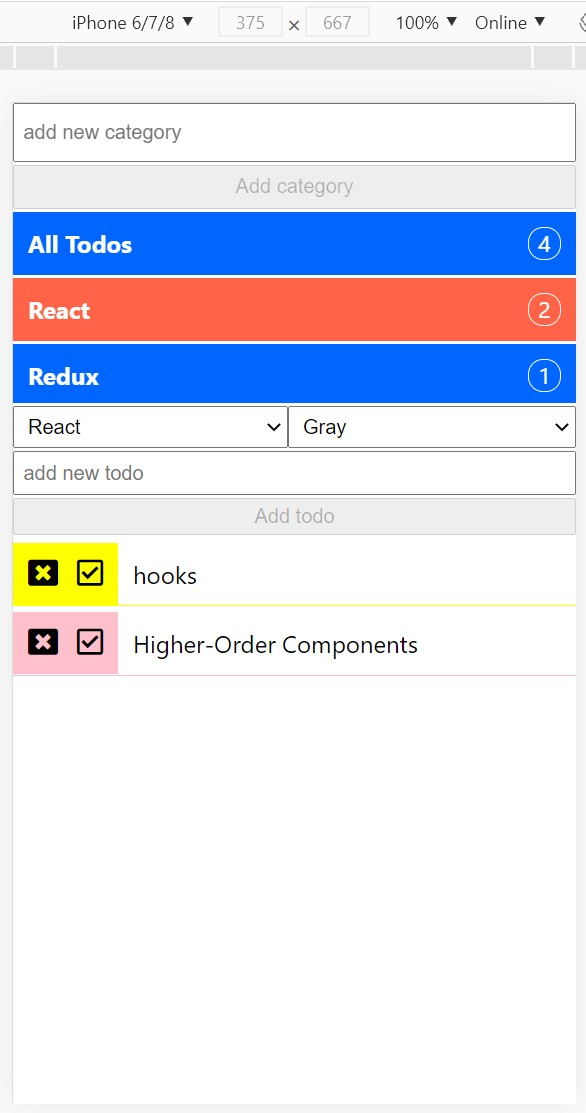
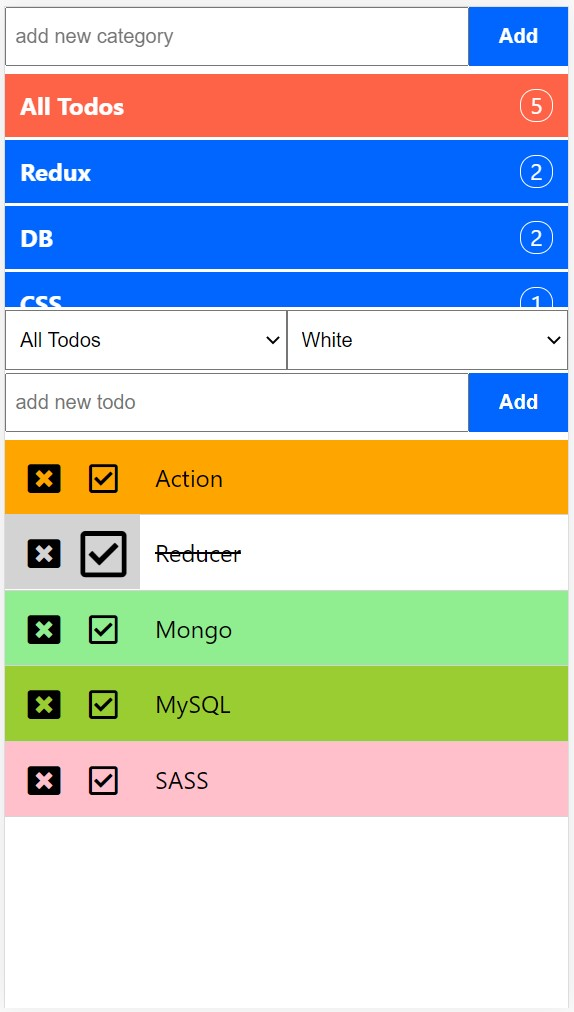
fixes

diff --git a/src/CategoryItems.jsx b/src/CategoryItems.jsx
@@ -1,38 +1,10 @@
 import React, { useContext } from "react";
 import { TodoContext } from "./TodoContext";
+import DeleteCategoryItem from "./DeleteCategoryItem";
 import styles from "./CategoryItems.module.scss";
 
 const CategoryItems = () => {
-  const {
-    todos,
-    categories,
-    handleSelectedCategory,
-    handleDeleteCategory,
-  } = useContext(TodoContext);
-
-  const DeleteCategory = ({ id }) => {
-    const todos_ = todos.filter((todo) => todo.category.id === id).length;
-
-    if (id === 1 || todos_) {
-      return (
-        <div className={styles.category__count}>
-          {id === 1 ? todos.length : todos_}
-        </div>
-      );
-    } else {
-      return (
-        <div
-          onClick={(event) => {
-            event.stopPropagation();
-            handleDeleteCategory(id);
-          }}
-          className={styles.category__button}
-        >
-          <i className="far fa-window-close"></i>
-        </div>
-      );
-    }
-  };
+  const { categories, handleSelectedCategory } = useContext(TodoContext);
 
   return (
     <div className={styles.wrap}>
@@ -47,7 +19,7 @@ const CategoryItems = () => {
           key={category.id}
         >
           <div className={styles.category__text}>{category.value}</div>
-          <DeleteCategory id={category.id} />
+          <DeleteCategoryItem id={category.id} />
         </div>
       ))}
     </div>

diff --git a/src/CategoryItems.module.scss b/src/CategoryItems.module.scss
@@ -27,45 +27,4 @@
       text-decoration: line-through;
     }
   }
-
-  &__button {
-    box-sizing: border-box;
-    min-height: 22px;
-    & i {
-      font-size: 20px;
-      cursor: pointer;
-      &:hover {
-        transition: 0.5s;
-        font-size: 18px;
-      }
-    }
-  }
-
-  &__btn {
-    overflow: hidden;
-    width: 100%;
-    background-color: rgb(0, 102, 255);
-    color: white;
-    border: none;
-    text-decoration: none;
-    border-radius: 0;
-    padding: 10px;
-    min-height: 22px;
-    margin-bottom: 5px;
-    font-weight: bold;
-    transition-duration: 0.4s;
-    &:hover {
-      overflow: hidden;
-      border: 0;
-      border-radius: 0;
-      background-color: tomato;
-    }
-  }
-
-  &__count {
-    border: 1px solid white;
-    border-radius: 10px;
-    padding: 0 6px;
-    font-size: 15px;
-  }
 }

diff --git a/src/DeleteCategoryItem.jsx b/src/DeleteCategoryItem.jsx
@@ -1,0 +1,30 @@
+import React, { useContext } from "react";
+import { TodoContext } from "./TodoContext";
+import styles from "./CategoryItems.module.scss";
+
+const DeleteCategoryItem = ({ id }) => {
+  const { todos, handleDeleteCategory } = useContext(TodoContext);
+  const todos_ = todos.filter((todo) => todo.category.id === id).length;
+
+  if (id === 1 || todos_) {
+    return (
+      <div className={styles.category__count}>
+        {id === 1 ? todos.length : todos_}
+      </div>
+    );
+  } else {
+    return (
+      <div
+        onClick={(event) => {
+          event.stopPropagation();
+          handleDeleteCategory(id);
+        }}
+        className={styles.category__button}
+      >
+        <i className="far fa-window-close"></i>
+      </div>
+    );
+  }
+};
+
+export default DeleteCategoryItem;

diff --git a/src/DeleteCategoryItems.module.scss b/src/DeleteCategoryItems.module.scss
@@ -1,0 +1,21 @@
+.category {
+  &__button {
+    box-sizing: border-box;
+    min-height: 22px;
+    & i {
+      font-size: 20px;
+      cursor: pointer;
+      &:hover {
+        transition: 0.5s;
+        font-size: 18px;
+      }
+    }
+  }
+
+  &__count {
+    border: 1px solid white;
+    border-radius: 10px;
+    padding: 0 6px;
+    font-size: 15px;
+  }
+}

diff --git a/src/AddTodo.module.scss b/src/AddTodo.module.scss
@@ -8,11 +8,7 @@
       padding: 10px 5px;
       min-height: 25px;
       margin-right: 5px;
-    }
-
-    & select {
       cursor: pointer;
-      min-height: 25px;
     }
 
     @media (max-width: 500px) {

diff --git a/README.md b/README.md
@@ -1,5 +1,5 @@
 
-# TODO :)
+# TODO - the app is in a progress :)
 
 [DEMO LINK](https://todo-phi-eight.vercel.app/)
 
